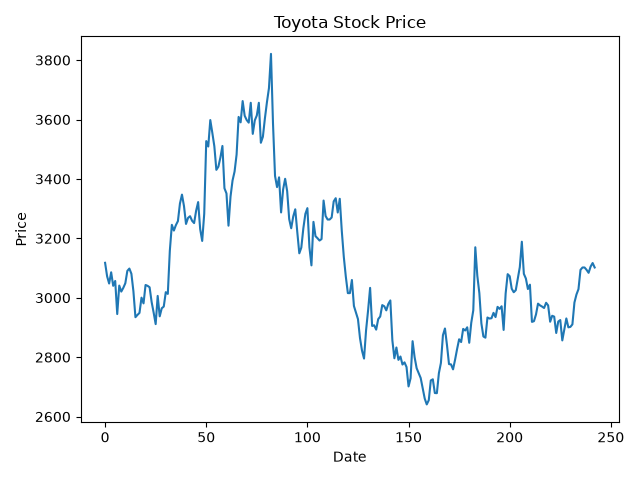
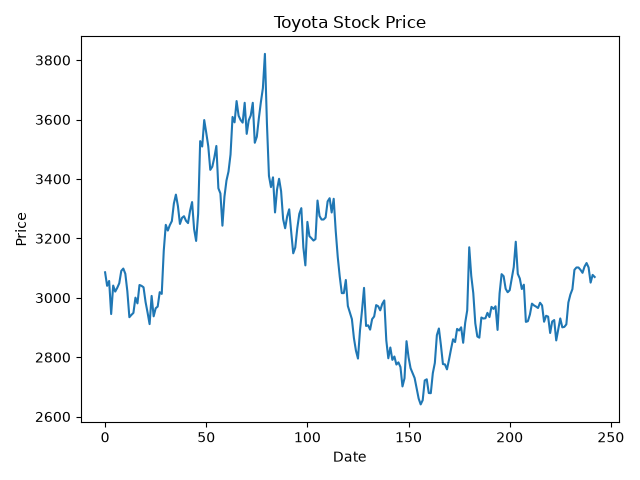
利回り計算機能の追加とREADMEの更新

Changed region(s): [[0.1562, 0.0938, 0.9375, 0.8438]]

diff --git a/analyze_stock.py b/analyze_stock.py
@@ -1,8 +1,16 @@
 import pandas as pd
-
 import matplotlib.pyplot as plt
 
 df = pd.read_csv("stock_data.csv")
+print(df.columns) #Divedends(配当金)の列があるかを確認
+
+df["Date"] = pd.to_datetime(df["Date"]) #日付をdatetime型に変換
+
+this_year = df["Date"].dt.year == 2026 #取り出す年を指定
+total = df[this_year]["Dividends"].sum() #本年の配当金の合計を表示
+latest_price = df.tail(1)['Close'].iloc[0]
+dividends = total / latest_price * 100 #利回りの計算
+print(dividends)
 
 print("[株価データの先頭5行]")
 print(df.head())
@@ -19,4 +27,3 @@ plt.ylabel("Price")
 plt.tight_layout()
 plt.savefig("stock_chart.png")
 plt.close()
-

diff --git a/README.md b/README.md
@@ -1,1 +1,24 @@
 # stock_analysis
+
+プロジェクト名
+株価を分析するプログラム
+
+なぜこのプロジェクトを作ったか
+データ分析を実際に動かして学ぶために作成
+
+主な機能
+・対象の株価を取得して、csvにする
+・必要な情報を抜き出して、グラフにしたものをpngで保存
+
+使用している技術
+・Python 3.14.8
+
+環境構築
+#リポジトリのクローンから、依存パッケージのインストールまでの手順をコマンド付きで書く。
+
+使い方
+python download_stock.py
+で対象の株価をcsvで保存
+
+python analyze_stock.py
+を実行してpngにする
